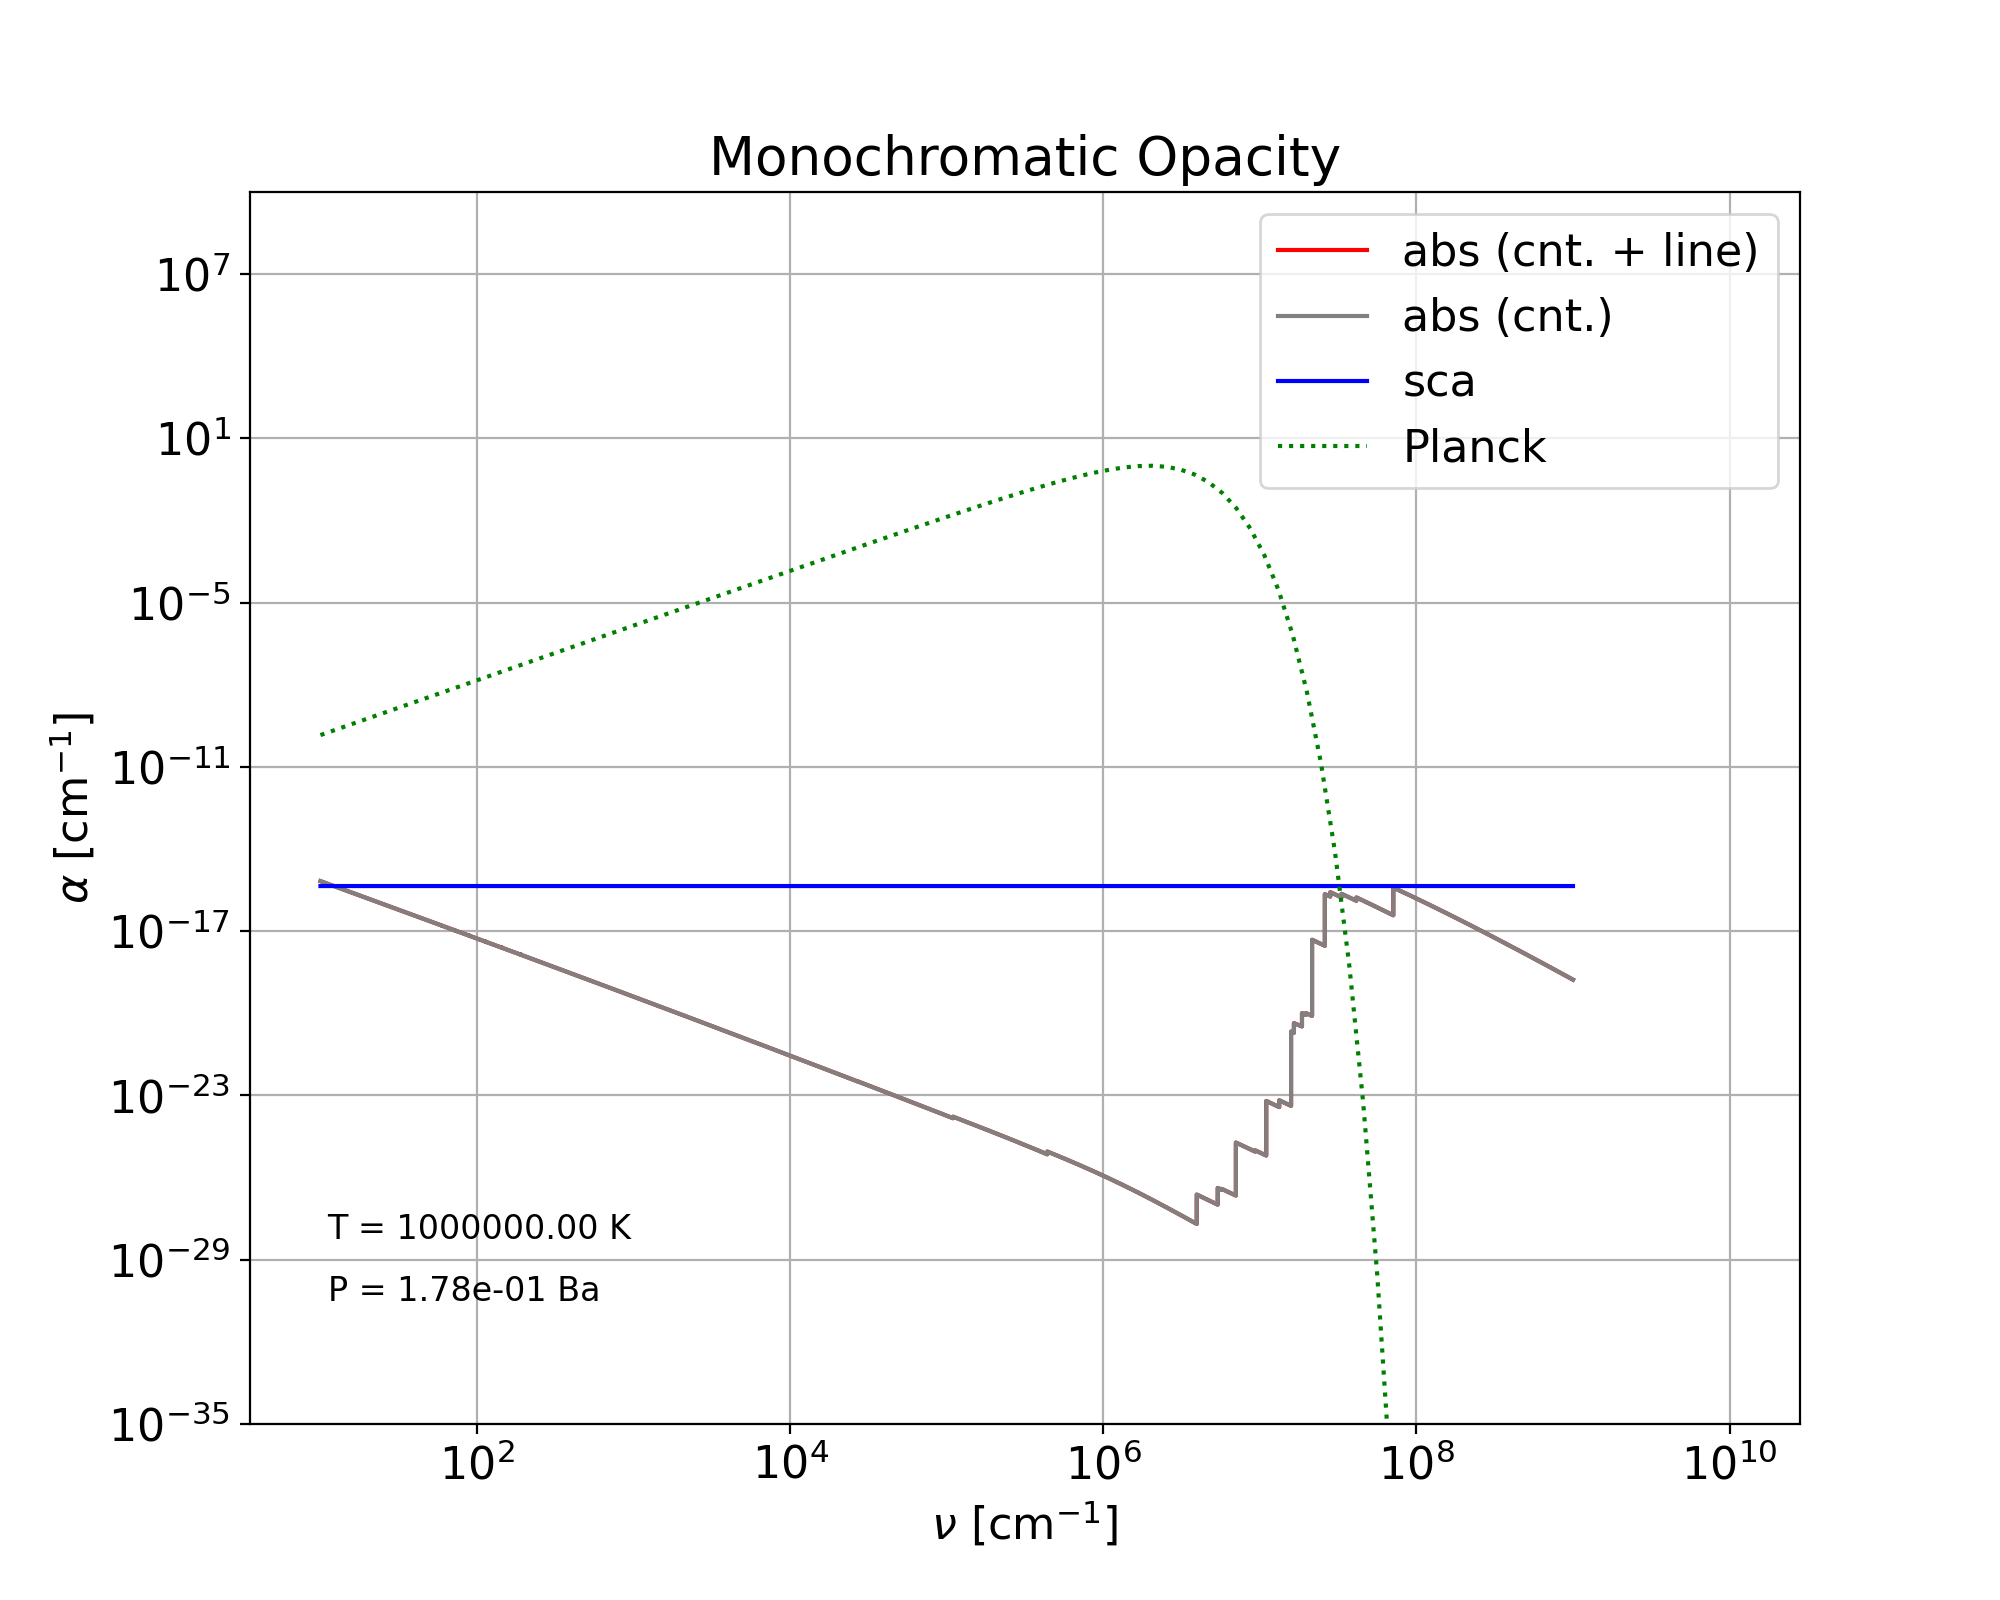
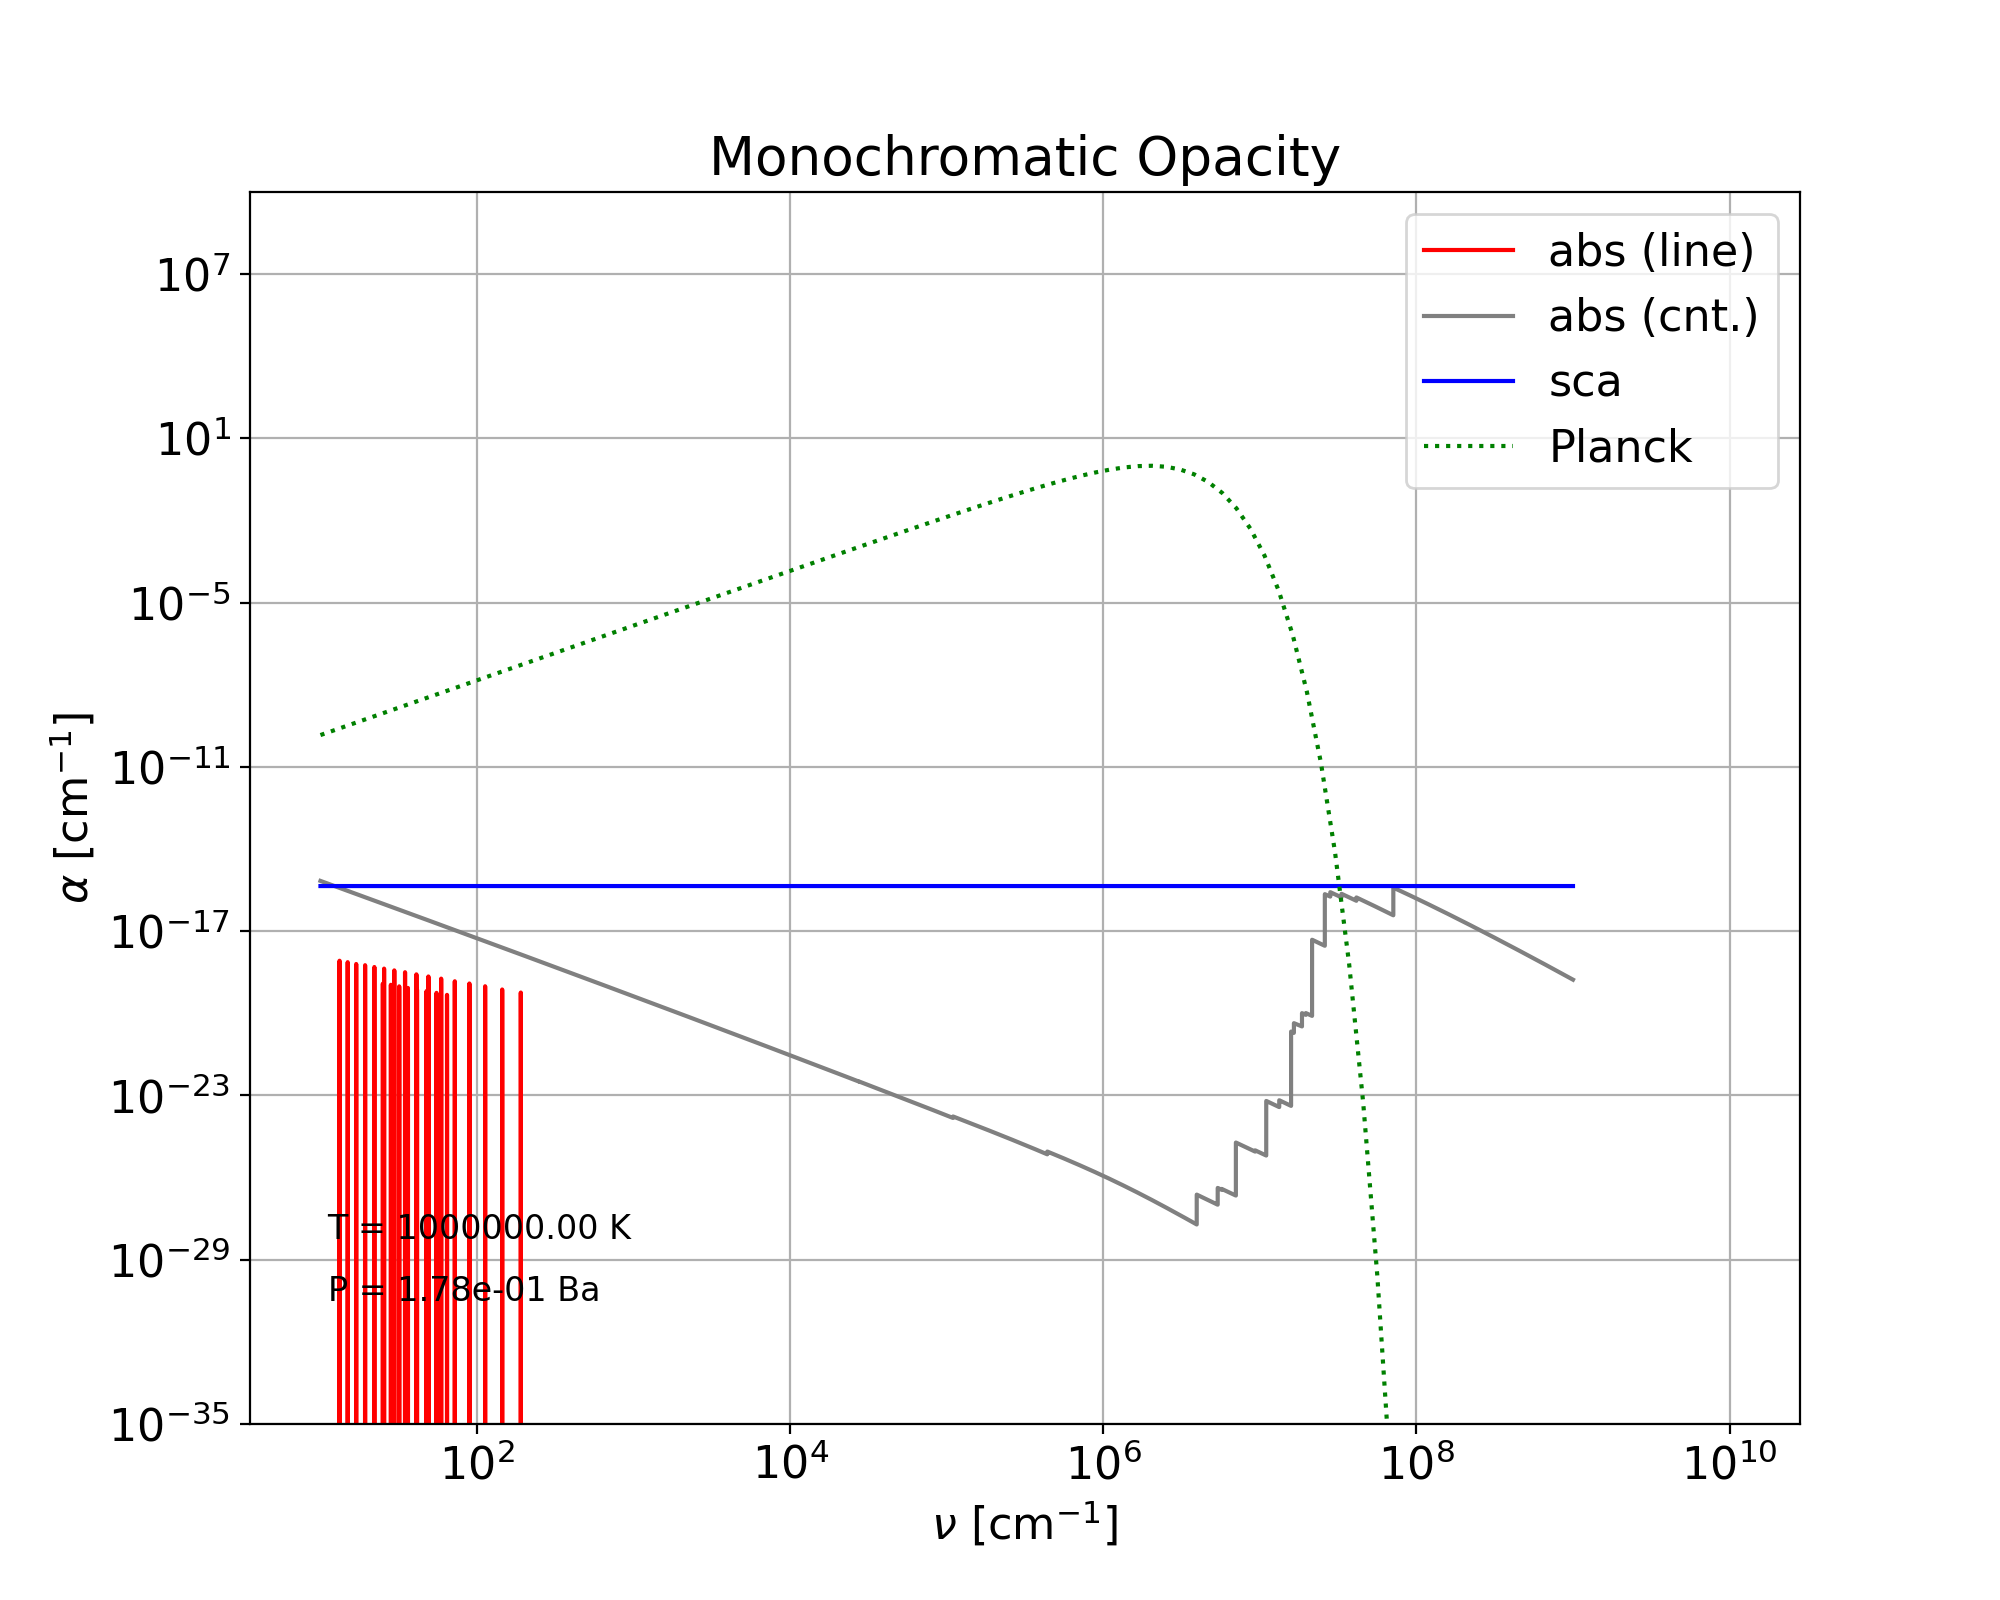
correction due to the change from array cnt to array line

Changed region(s): [[0.155, 0.5938, 0.279, 0.9062], [0.682, 0.125, 0.868, 0.2812]]

diff --git a/sample/python/mono.py b/sample/python/mono.py
@@ -27,7 +27,7 @@ def generate_plot(dir_path, layer):
     grd = data['grd']
     abs_ = data['abs']
     sca = data['sca']
-    cnt = data['cnt']
+    line = data['line']
     np_ = data['nden']
     pre = np_[0] * K_BOL * tmp
 
@@ -39,8 +39,8 @@ def generate_plot(dir_path, layer):
 
     plt.rcParams.update({'font.size': 16})  # Adjust the number to your preference
     plt.figure(figsize=(10, 8))
-    plt.loglog(grd, abs_, color='red', label='abs (cnt. + line)')
-    plt.loglog(grd, cnt - sca, color='gray', label='abs (cnt.)')
+    plt.loglog(grd, line, color='red', label='abs (line)')
+    plt.loglog(grd, abs_, color='gray', label='abs (cnt.)')
     plt.loglog(grd, sca, color='blue', label='sca')
     plt.loglog(grd0, planck, color='green', linestyle=':', label='Planck')
     plt.xlabel(r'$\nu$ [cm$^{-1}$]')
